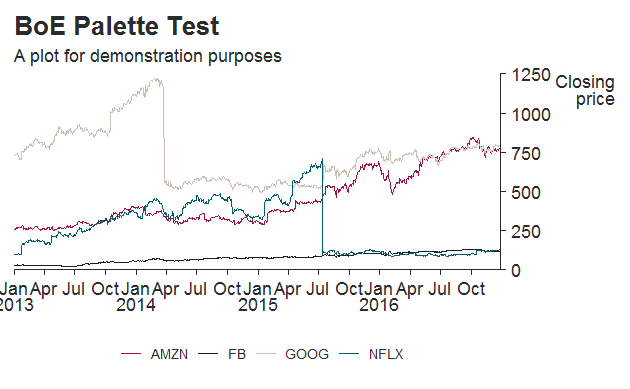
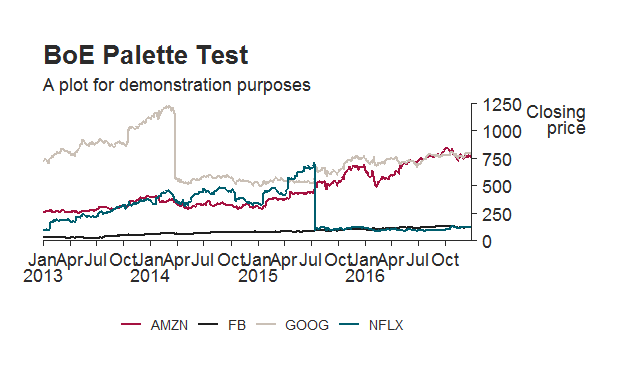
plot margin revert

diff --git a/README.md b/README.md
@@ -40,7 +40,7 @@ library(ggplot2)
 
 # create chart
 ggplot(data = FANG, aes(x = date, y = close, colour = symbol)) +
-  geom_line() +
+  geom_line(size = 0.7) +
   labs(title = "BoE Palette Test",
        subtitle="A plot for demonstration purposes",
        y="Closing\nprice", x=NULL) +
